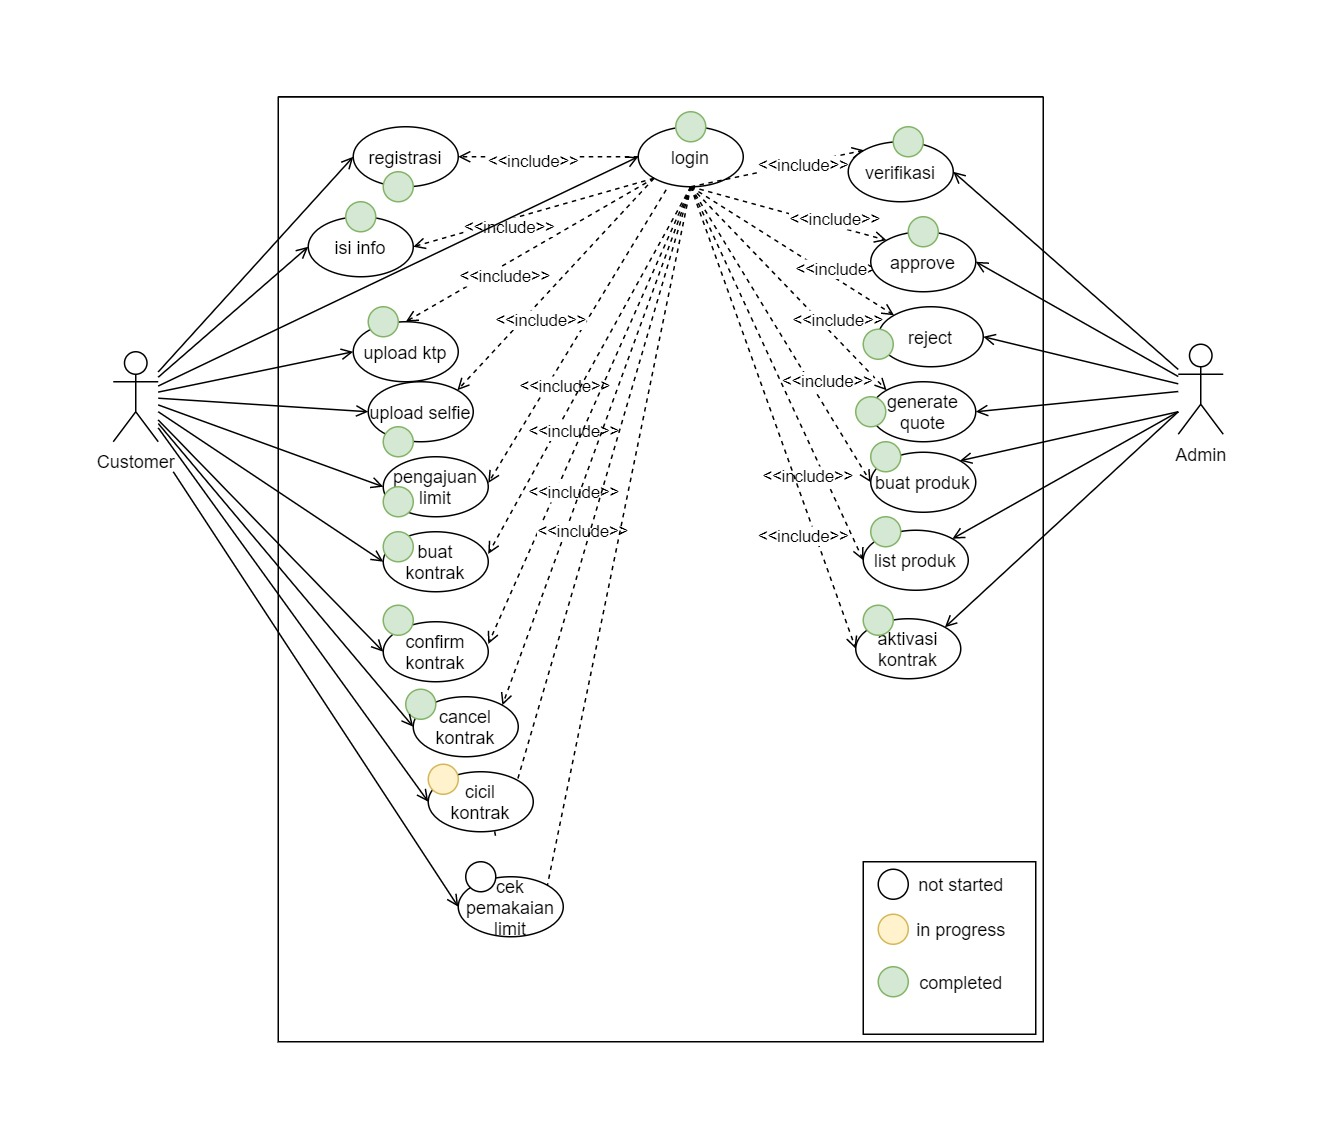
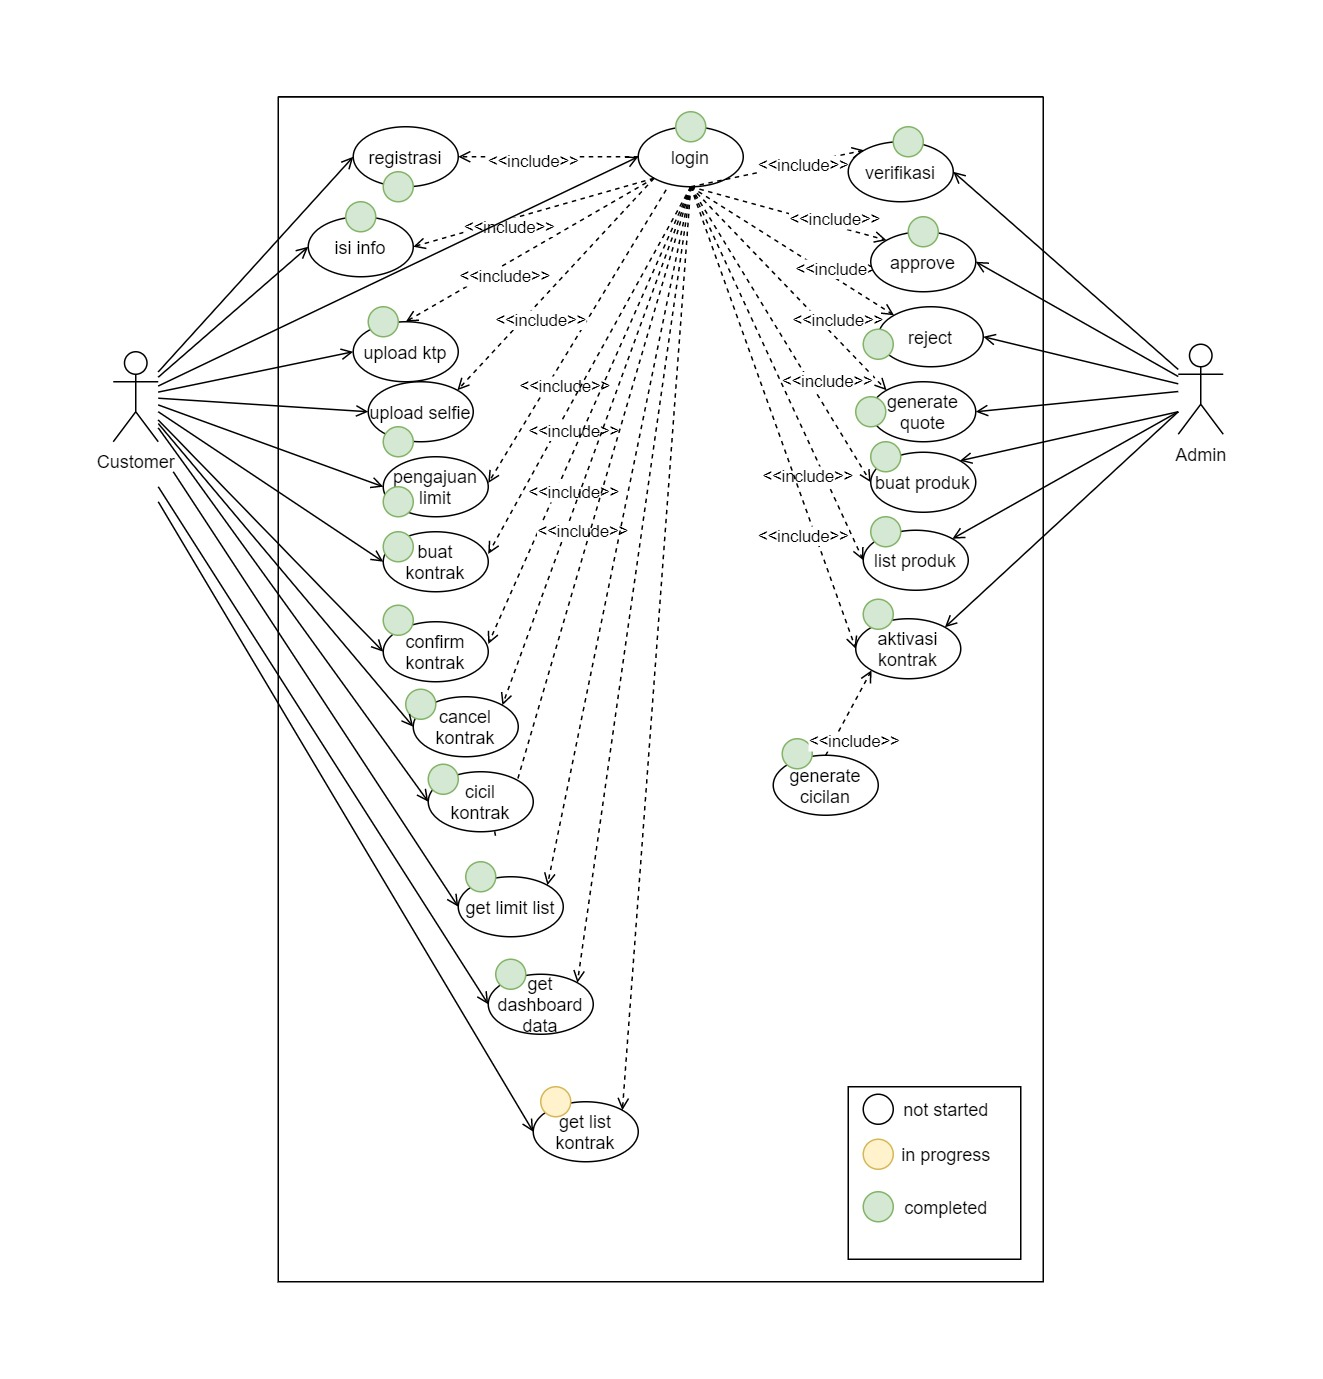
feat: add get limit list endpoint

Changed region(s): [[0.062, 0.0615, 0.9297, 0.8604], [0.6198, 0.7375, 0.7748, 0.9219]]

diff --git a/internal/infra/mysql/limit.go b/internal/infra/mysql/limit.go
@@ -71,30 +71,46 @@ func (r *limitRepository) GetLimitById(ctx context.Context, exec repository.Quer
 
 }
 
-func (r *limitRepository) GetLimitList(ctx context.Context, exec repository.QueryExecutor, payload entity.LimitListPayload) ([]*entity.Limit, error) {
+func (r *limitRepository) GetLimitList(ctx context.Context, exec repository.QueryExecutor, payload entity.LimitListPayload) ([]*entity.LimitDetail, error) {
 
 	// role["admin"] = 1
 	// role["consumer"] = 2
 
-	query := `SELECT id, requested_limit, status, approved_by, approved_at, consumer_id FROM credit_limits `
+	query := `
+		SELECT 
+			cl.id, 
+			cl.requested_limit, 
+			COALESCE(SUM(lu.used_amount), 0) as used_limit, 
+			requested_limit - COALESCE(SUM(lu.used_amount), 0) as remaining_limit, 
+			cl.status, 
+			cl.approved_by, 
+			cl.approved_at, 
+			cl.consumer_id 
+		FROM credit_limits cl 
+		LEFT JOIN limit_usages lu ON
+			cl.id = lu.limit_id
+	`
+
 	args := []any{}
 
 	if payload.RoleId == utils.Roles["consumer"] {
-		query += `WHERE consumer_id = ?`
+		query += `WHERE cl.consumer_id = ? `
 		args = append(args, payload.ConsumerId)
 	}
+
+	query += `GROUP BY cl.id, cl.requested_limit, cl.status, cl.approved_by, cl.approved_at, cl.consumer_id`
 
 	rows, err := exec.QueryContext(ctx, query, args...)
 	if err != nil {
 		return nil, err
 	}
 
-	var limits []*entity.Limit
+	var limits []*entity.LimitDetail
 	for rows.Next() {
 
-		var l entity.Limit
+		var l entity.LimitDetail
 
-		err = rows.Scan(&l.Id, &l.Requested, &l.Status, &l.ApprovedBy, &l.ApprovedAt, &l.ConsumerId)
+		err = rows.Scan(&l.Id, &l.Requested, &l.Used, &l.Remaining, &l.Status, &l.ApprovedBy, &l.ApprovedAt, &l.ConsumerId)
 		if err != nil {
 			return nil, err
 		}

diff --git a/internal/usecase/limit.go b/internal/usecase/limit.go
@@ -11,7 +11,7 @@ import (
 )
 
 type LimitUsecase interface {
-	GetList(context.Context) ([]*entity.Limit, error)
+	GetList(context.Context) ([]*entity.LimitDetail, error)
 	AjukanLimit(context.Context, entity.CreateLimitPayload) (int64, error)
 	TindakLanjut(context.Context, entity.UpdateLimitPayload) error
 }
@@ -28,7 +28,7 @@ func NewLimitUsecase(db *sql.DB, repo repository.LimitRepository) LimitUsecase {
 	}
 }
 
-func (uc *limitUsecase) GetList(ctx context.Context) ([]*entity.Limit, error) {
+func (uc *limitUsecase) GetList(ctx context.Context) ([]*entity.LimitDetail, error) {
 
 	claims := utils.ContextGetUser(ctx)
 

diff --git a/internal/entity/limit.go b/internal/entity/limit.go
@@ -9,6 +9,17 @@ type Limit struct {
 	ConsumerId int     `json:"consumer_id"`
 }
 
+type LimitDetail struct {
+	Id         int     `json:"id"`
+	Requested  int     `json:"requested_limit"`
+	Used       int     `json:"used_limit"`
+	Remaining  int     `json:"remaining_limit"`
+	Status     string  `json:"status"`
+	ApprovedBy *int    `json:"approved_by,omitempty"`
+	ApprovedAt *string `json:"approved_at,omitempty"`
+	ConsumerId int     `json:"consumer_id"`
+}
+
 type CreateLimitPayload struct {
 	Requested  int `json:"requested_limit"`
 	ConsumerId int

diff --git a/internal/usecase/user.go b/internal/usecase/user.go
@@ -101,12 +101,12 @@ func (uc *userUsecase) Login(ctx context.Context, payload *entity.LoginPayload) 
 		consumerId = 0
 		isVerified = false
 	} else {
-		consumer, err := uc.cr.GetByUserId(ctx, uc.db, user.Id)
+		consumer, err := uc.cr.GetIdByUserId(ctx, uc.db, user.Id)
 		if err != nil {
 			return "", err
 		}
 		consumerId = consumer.Id
-		isVerified, err = uc.cr.GetIsVerifiedById(ctx, uc.db, consumer.Id)
+		isVerified, err = uc.cr.GetIsVerifiedById(ctx, uc.db, consumerId)
 		if err != nil {
 			return "", err
 		}

diff --git a/internal/repository/consumer.go b/internal/repository/consumer.go
@@ -9,6 +9,7 @@ import (
 type ConsumerRepository interface {
 	List(context.Context, QueryExecutor) ([]*entity.Consumer, error)
 	GetById(context.Context, QueryExecutor, int) (*entity.Consumer, error)
+	GetIdByUserId(context.Context, QueryExecutor, int) (*entity.ConsumerId, error)
 	GetByUserId(context.Context, QueryExecutor, int) (*entity.Consumer, error)
 	Create(context.Context, QueryExecutor, int) (int, error)
 	Update(context.Context, QueryExecutor, int, entity.UpdateConsumerPayload) error

diff --git a/internal/infra/mysql/consumer.go b/internal/infra/mysql/consumer.go
@@ -171,3 +171,18 @@ func (r *consumerRepository) GetIsVerifiedById(ctx context.Context, exec reposit
 	return isVerified == 1, nil
 
 }
+
+func (r *consumerRepository) GetIdByUserId(ctx context.Context, exec repository.QueryExecutor, user_id int) (*entity.ConsumerId, error) {
+
+	query := `SELECT id FROM consumers WHERE user_id = ?`
+
+	var cid entity.ConsumerId
+
+	err := exec.QueryRowContext(ctx, query, user_id).Scan(&cid.Id)
+	if err != nil {
+		return nil, err
+	}
+
+	return &cid, nil
+
+}

diff --git a/internal/repository/limit.go b/internal/repository/limit.go
@@ -10,5 +10,5 @@ type LimitRepository interface {
 	Create(context.Context, QueryExecutor, entity.CreateLimitPayload) (int64, error)
 	UpdateStatus(context.Context, QueryExecutor, entity.UpdateLimitPayload) error
 	GetLimitById(context.Context, QueryExecutor, int) (*entity.Limit, error)
-	GetLimitList(context.Context, QueryExecutor, entity.LimitListPayload) ([]*entity.Limit, error)
+	GetLimitList(context.Context, QueryExecutor, entity.LimitListPayload) ([]*entity.LimitDetail, error)
 }

diff --git a/internal/delivery/http/handler/limit.go b/internal/delivery/http/handler/limit.go
@@ -27,6 +27,7 @@ func (h *limitHandler) LimitList(w http.ResponseWriter, r *http.Request) {
 
 	limit, err := h.uc.GetList(r.Context())
 	if err != nil {
+		log.Println(err.Error())
 		http.Error(w, "internal server error", http.StatusInternalServerError)
 		return
 	}

diff --git a/internal/entity/consumer.go b/internal/entity/consumer.go
@@ -29,3 +29,7 @@ type ConsumerActionPayload struct {
 	NomorKontrak string
 	Action       string
 }
+
+type ConsumerId struct {
+	Id int
+}
